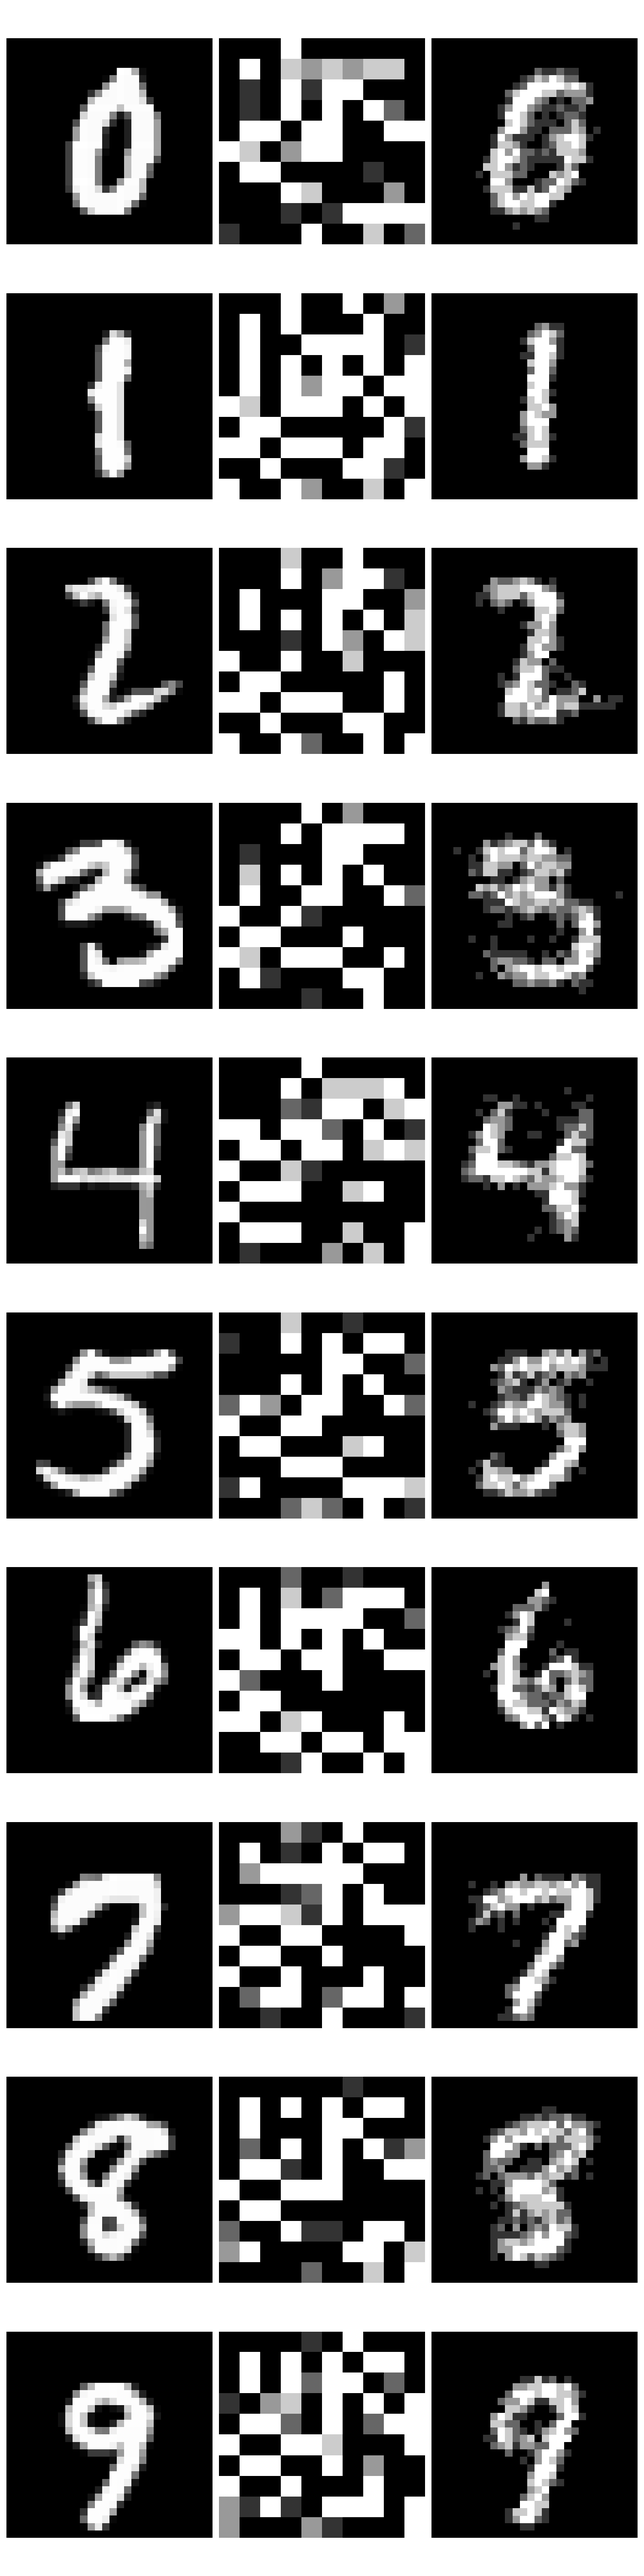
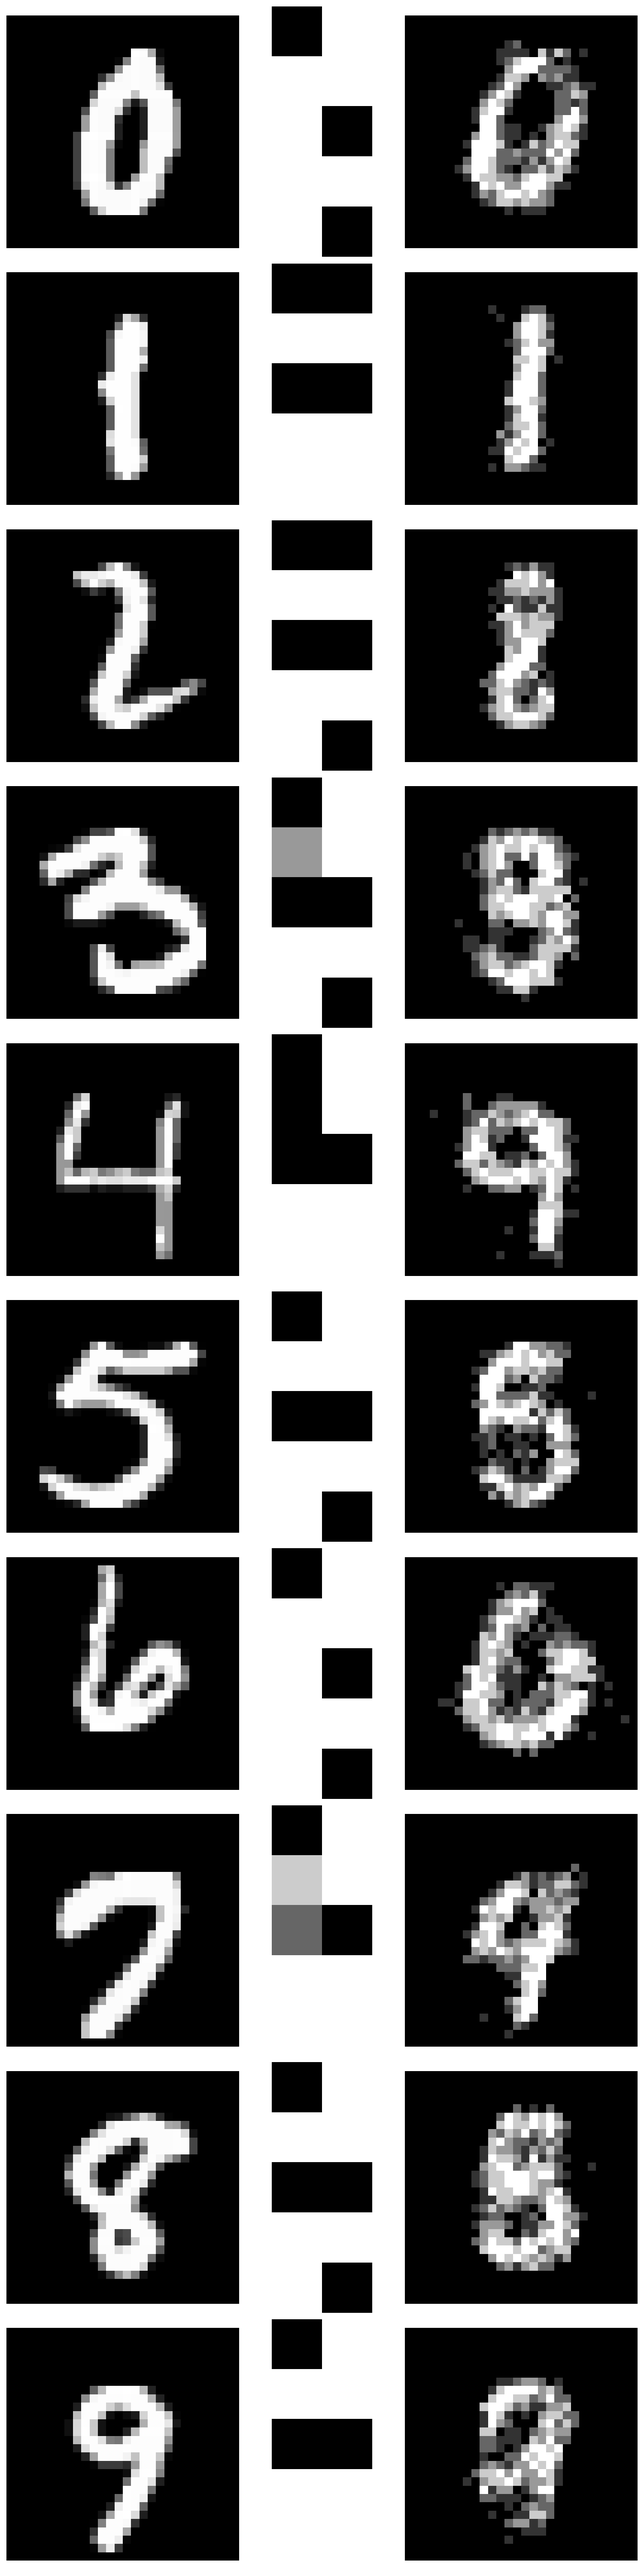
simple updates

diff --git a/sample_DBN.py b/sample_DBN.py
@@ -5,14 +5,15 @@ from models.DBN.DBN_classifier import Pre_trainer as Pre_trainer_classifier
 from models.DBN.DBN_synthetic_generator import Pre_trainer as Pre_trainer_synthetic_generator
 from matplotlib import pyplot as plt
 import numpy as np
+from sys import getsizeof
 
 def DBN_synthetic_generation_example(labels, images):
 	images_reshaped = images.reshape((len(images), -1))
-	dbn = Pre_trainer_synthetic_generator(n_visible=784, hidden_array=[400, 256, 100], epochs=15, optim='adm')
+	dbn = Pre_trainer_synthetic_generator(n_visible=784, hidden_array=[400, 256, 100, 49, 10], epochs=15, optim='adm')
 	dbn.train_dbn(images_reshaped)
 	synthetic_images, hidden_features = dbn.get_synthetic_data(images_reshaped)
 	synthetic_images = np.reshape(synthetic_images, (-1, 28, 28))
-	hidden_features = np.reshape(hidden_features, (-1, 10, 10))
+	hidden_features = np.reshape(hidden_features, (-1, 5, 2))
 	plt.cla()
 	fig = plt.figure(figsize = (15,60))
 	for digit in range(10):
@@ -31,7 +32,7 @@ def DBN_synthetic_generation_example(labels, images):
 
 def DBN_classification_example(labels, images):
 	images_reshaped = images.reshape((len(images), -1))
-	dbn = Pre_trainer_classifier(n_visible=784, hidden_array=[400, 256, 100, 49], n_classes=10, epochs=15, optim='adam')
+	dbn = Pre_trainer_classifier(n_visible=784, hidden_array=[400, 256, 100, 49], n_classes=10, epochs=15, optim='adm')
 	dbn.train_dbn(images_reshaped)
 	print("------Without Pre Training------")
 	model = dbn.get_torch_model()
@@ -42,5 +43,5 @@ def DBN_classification_example(labels, images):
 
 if __name__ == '__main__':
 	data = get_data("./data/train.csv")
-	#DBN_classification_example(data['labels'], data['images'])
-	DBN_synthetic_generation_example(data['labels'], data['images'])
+	DBN_classification_example(data['labels'], data['images'])
+	#DBN_synthetic_generation_example(data['labels'], data['images'])
